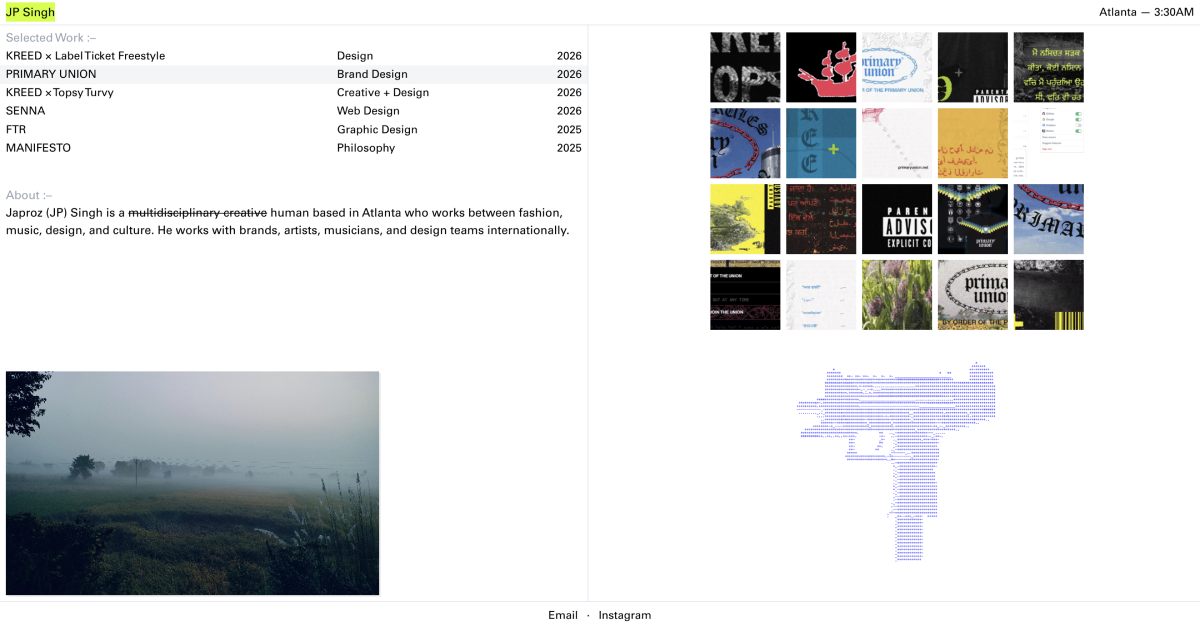
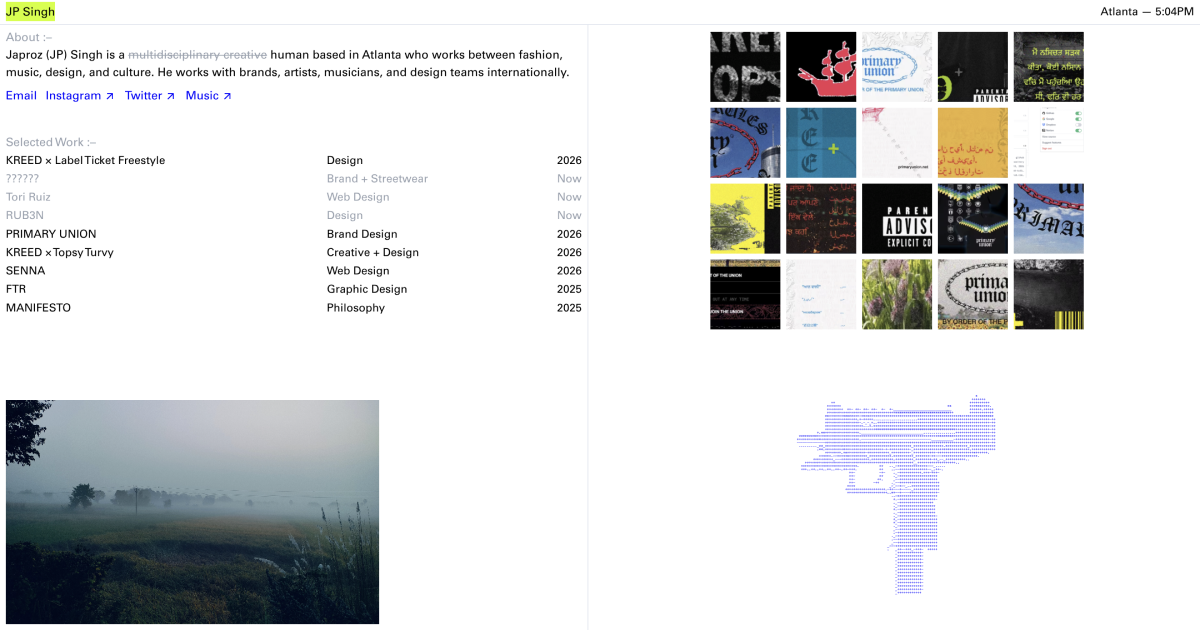
move stuff around

diff --git a/src/pages/index.tsx b/src/pages/index.tsx
@@ -3,6 +3,7 @@ import AsciiModel from "@/components/ascii-model";
 import { gifUrls, images, Project, projects } from "@/types";
 import { useEffect, useState } from "react";
 import { IoCloseOutline } from "react-icons/io5";
+import { MdArrowOutward } from "react-icons/md";
 export default function Home() {
 	const [selected, setSelected] = useState<Project | null>(null);
 	const [colorIndex, setColorIndex] = useState<number | null>(null);
@@ -34,7 +35,7 @@ export default function Home() {
 			}
 
 			setEmailCopied(true);
-			setTimeout(() => setEmailCopied(false), 5000);
+			setTimeout(() => setEmailCopied(false), 2000);
 		} catch (error) {
 			console.error("Failed to copy email:", error);
 		}
@@ -101,39 +102,115 @@ export default function Home() {
 			<div className="border-t border-border-color flex flex-col md:flex-row gap-x-8 flex-1 min-h-0 overflow-y-auto md:overflow-visible">
 				{/* table - full width on mobile, half width on desktop */}
 				<div className="w-full flex flex-col md:w-1/2 pt-1.5 md:border-r md:border-border-color md:overflow-y-auto custom-scrollbar">
+					<p className="pl-2 text-gray-400">About :–</p>
+					<p className="pl-2">
+						Japroz (JP) Singh is a{" "}
+						<span className="line-through text-gray-400">
+							multidisciplinary creative
+						</span>{" "}
+						human based in Atlanta who works between fashion, music,
+						design, and culture. He works with brands, artists,
+						musicians, and design teams internationally.
+					</p>
+					<div className="pl-2 mt-2 mb-10 flex flex-wrap text-[blue] items-center gap-x-3 gap-y-1">
+						<button
+							type="button"
+							onClick={handleCopyEmail}
+							className="cursor-copy hover:underline underline-offset-2"
+						>
+							{emailCopied ? "[Copied]" : "Email"}
+						</button>
+						<a
+							href="https://instagram.com/dysleks1k"
+							target="_blank"
+							rel="noopener noreferrer"
+							className="inline-flex items-center gap-0.5 hover:underline underline-offset-2"
+						>
+							Instagram{" "}
+							<MdArrowOutward className="ml-0.5 shrink-0" />
+						</a>
+						<a
+							href="https://twitter.com/dysleks1k"
+							target="_blank"
+							rel="noopener noreferrer"
+							className="inline-flex items-center gap-0.5 hover:underline underline-offset-2"
+						>
+							Twitter{" "}
+							<MdArrowOutward className="ml-0.5 shrink-0" />
+						</a>
+						<a
+							href="https://music.apple.com/profile/dysleks1k"
+							target="_blank"
+							rel="noopener noreferrer"
+							className="inline-flex items-center gap-0.5 hover:underline underline-offset-2"
+						>
+							Music <MdArrowOutward className="ml-0.5 shrink-0" />
+						</a>
+					</div>
 					<p className="pl-2 text-gray-400">Selected Work :–</p>
 					<table className="w-full text-left text-sm text-[0.95rem]">
-						{/* <thead>
-							<tr className="border-b border-border-color">
-								<th className="pl-2 pb-1 font-normal">
-									Project
-								</th>
-								<th className="pb-1 font-normal">Role</th>
-								<th className="pr-2 pb-1 font-normal text-right hidden md:table-cell">
-									Year
-								</th>
-							</tr>
-						</thead> */}
 						<tbody>
-							{/* <tr className={`text-gray-400`}>
+							{projects.slice(0, 1).map((project) => (
+								<tr
+									key={project.id}
+									onClick={() => setSelected(project)}
+									onMouseEnter={() =>
+										setHoveredProjectId(project.id)
+									}
+									onMouseLeave={() =>
+										setHoveredProjectId(null)
+									}
+									className={`cursor-pointer hover:bg-gray-100/90 ${
+										selected?.id === project.id
+											? "bg-gray-100/90"
+											: ""
+									}`}
+								>
+									<td className="pl-2 pt-0.5 py-[0.1rem]">
+										{project.name}
+									</td>
+									<td className="pt-0.5 py-[0.1rem]">
+										{project.role}
+									</td>
+									<td className="pr-2 pt-0.5 py-[0.1rem] text-right hidden md:table-cell">
+										{project.year}
+									</td>
+								</tr>
+							))}
+
+							<tr className="text-gray-400">
 								<td className="pl-2 pt-0.5 py-[0.1rem]">
 									??????
 								</td>
-								<td className="pt-0.5 py-[0.1rem]">???</td>
+								<td className="pt-0.5 py-[0.1rem]">
+									Brand + Streetwear
+								</td>
 								<td className="pr-2 pt-0.5 py-[0.1rem] text-right hidden md:table-cell">
-									In progress
+									Now
 								</td>
 							</tr>
-							<tr className={`text-gray-400`}>
+							<tr className="text-gray-400">
+								<td className="pl-2 pt-0.5 py-[0.1rem]">
+									Tori Ruiz
+								</td>
+								<td className="pt-0.5 py-[0.1rem]">
+									Web Design
+								</td>
+								<td className="pr-2 pt-0.5 py-[0.1rem] text-right hidden md:table-cell">
+									Now
+								</td>
+							</tr>
+							<tr className="text-gray-400">
 								<td className="pl-2 pt-0.5 py-[0.1rem]">
 									RUB3N
 								</td>
-								<td className="pt-0.5 py-[0.1rem]">Art</td>
+								<td className="pt-0.5 py-[0.1rem]">Design</td>
 								<td className="pr-2 pt-0.5 py-[0.1rem] text-right hidden md:table-cell">
-									In progress
+									Now
 								</td>
-							</tr> */}
-							{projects.map((project) => (
+							</tr>
+
+							{projects.slice(1).map((project) => (
 								<tr
 									key={project.id}
 									onClick={() => setSelected(project)}
@@ -162,16 +239,7 @@ export default function Home() {
 							))}
 						</tbody>
 					</table>
-					<p className="pl-2 text-gray-400 mt-10">About :–</p>
-					<p className="pl-2">
-						Japroz (JP) Singh is a{" "}
-						<span className="line-through">
-							multidisciplinary creative
-						</span>{" "}
-						human based in Atlanta who works between fashion, music,
-						design, and culture. He works with brands, artists,
-						musicians, and design teams internationally.
-					</p>
+
 					<div className="ml-2 mt-auto mb-2 hidden md:flex items-center gap-2 max-w-lg">
 						{/* <img
 							className="w-1/2 min-w-0 aspect-[3/4] object-cover"
@@ -237,16 +305,12 @@ export default function Home() {
 					</div>
 				</div>
 			</div>
-			{/* image grid, mobile only — sits just above the footer */}
-			<div className="max-w-lg mx-auto grid grid-cols-5 gap-1 p-2 md:hidden">
+			{/* Mobile image gallery */}
+			<div className="w-full grid grid-cols-5 gap-2 p-2 md:hidden shrink-0">
 				{images.map((img) => (
 					<img
 						key={img.url}
-						className={`aspect-square object-cover cursor-pointer ${
-							img.projectId === hoveredProjectId
-								? "grayscale-0"
-								: "grayscale-0 hover:grayscale-0"
-						}`}
+						className="w-full min-w-0 h-16 object-cover cursor-pointer"
 						src={img.url}
 						onClick={() => {
 							const match = projects.find(
@@ -279,33 +343,6 @@ export default function Home() {
 					/>
 				))}
 			</div> */}
-			<div className="border-t border-border-color flex items-center justify-center gap-x-3 pt-2 mt-auto mb-2 text-[0.95rem]">
-				<button
-					type="button"
-					onClick={handleCopyEmail}
-					className="cursor-copy"
-				>
-					{emailCopied ? "Copied to clipboard" : "Email"}
-				</button>
-				<span>·</span>
-				<a
-					href="https://instagram.com/dysleks1k"
-					target="_blank"
-					rel="noopener noreferrer"
-					className="hover:underline"
-				>
-					Instagram
-				</a>
-				<span>·</span>
-				<a
-					href="https://twitter.com/dysleks1k"
-					target="_blank"
-					rel="noopener noreferrer"
-					className="hover:underline"
-				>
-					Twitter
-				</a>
-			</div>
 		</div>
 	);
 }
